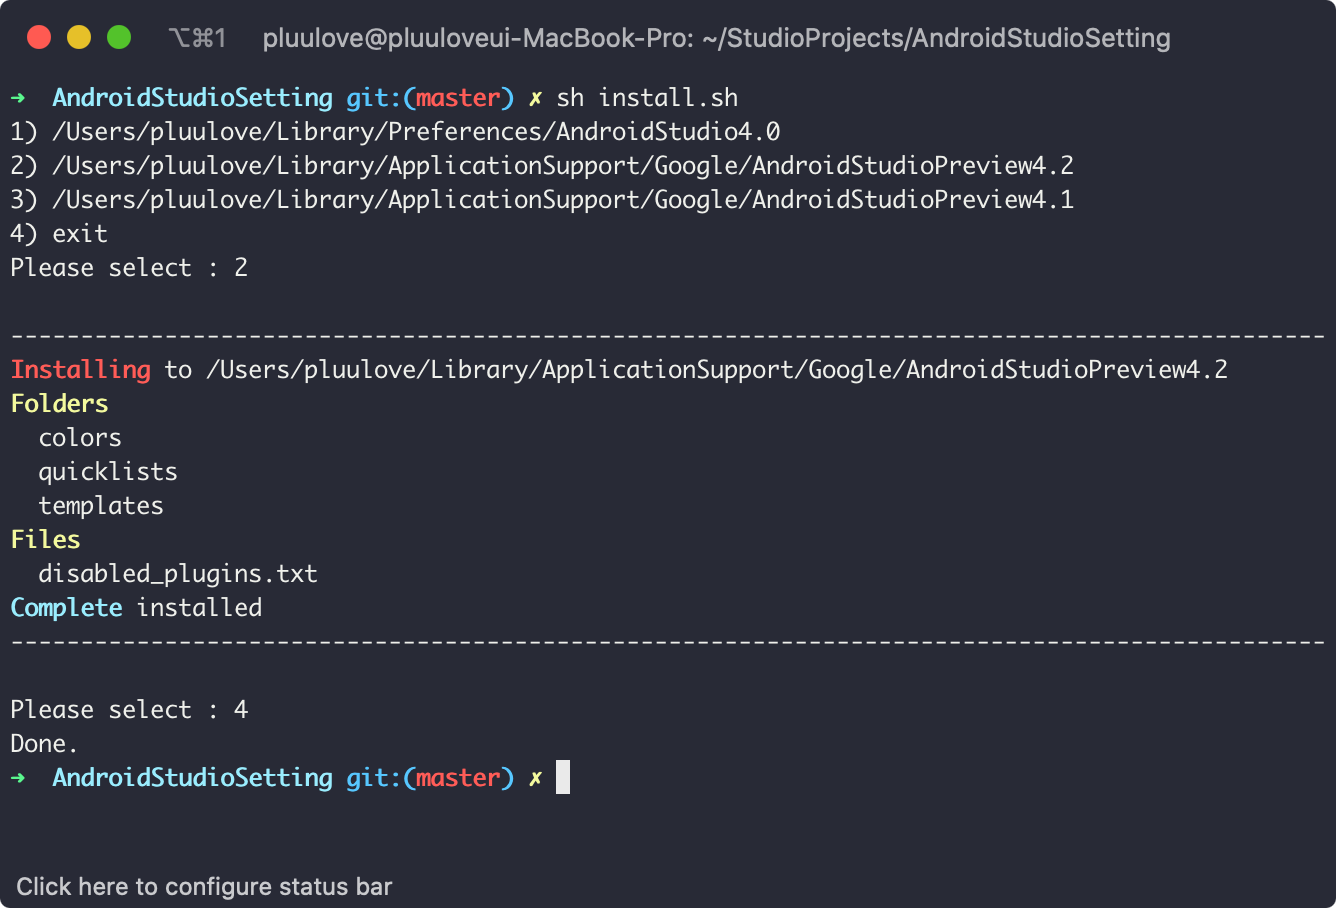
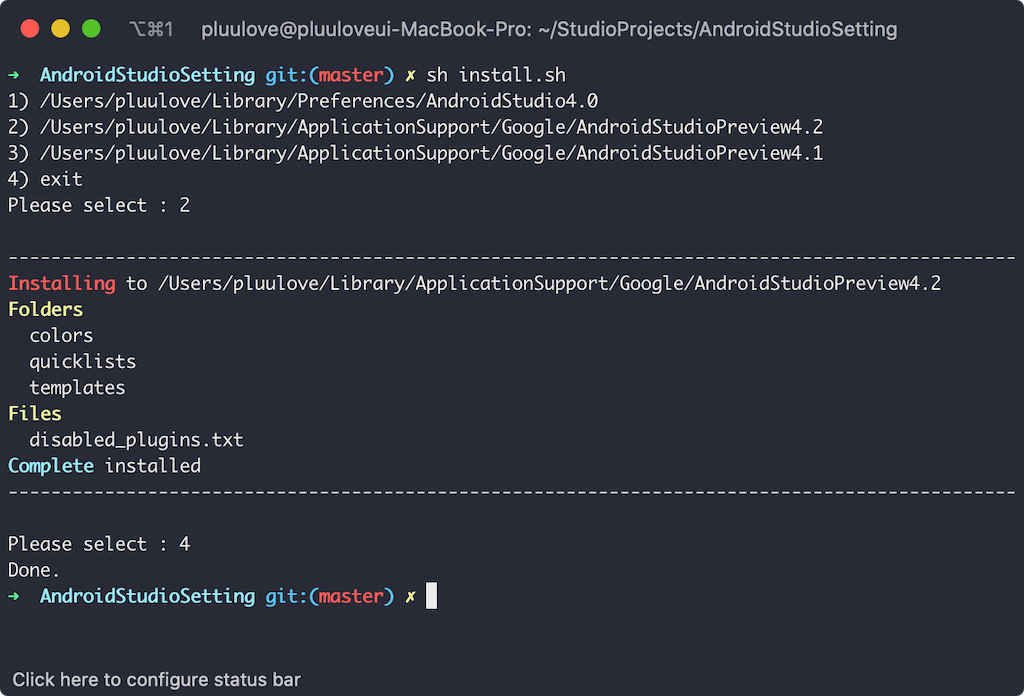
Update README

diff --git a/README.md b/README.md
@@ -3,11 +3,16 @@
 ## Install, Live Templaste
 
 - 동일한 폴더에 있는 `install.sh`를 실행
-- 지원 Template
-   - Kotlin에서 `sbc` comment 사용
-   - obtainstyledattribute
-   - ConstraintLayout
-   - LiveData
+- 설치하는 정보
+   - colors
+   - quicklists
+   - templates
+      - obtainstyledattribute
+      - ConstraintLayout
+      - LiveData
+   - disabled_plugins
+
+![install_sample](https://github.com/Pluu/AndroidStudioSetting/blob/master/screenshot/install_sample.png)
 
 ## Plugin
 
